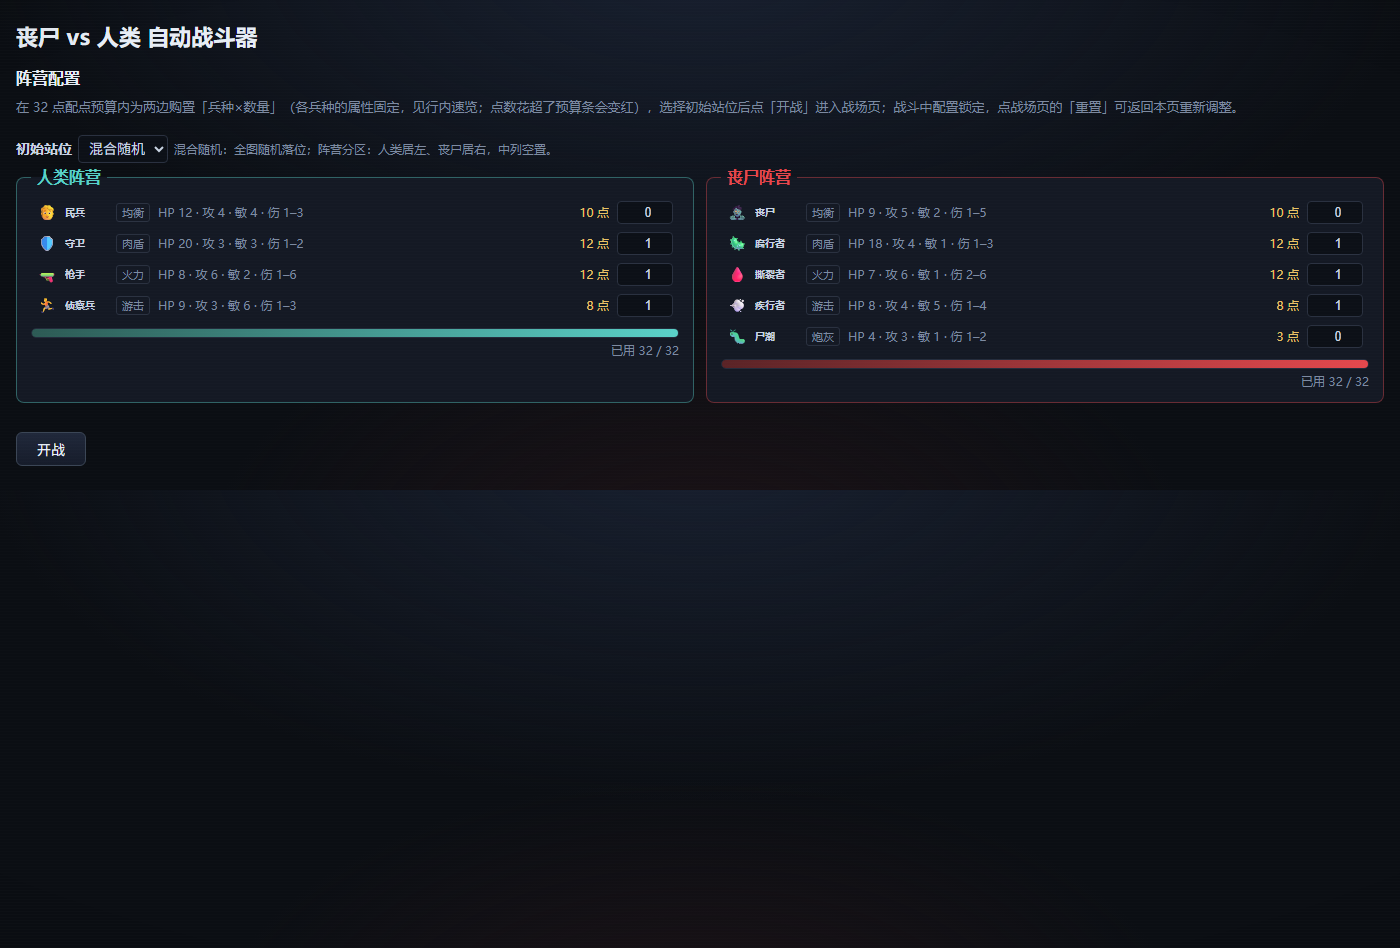
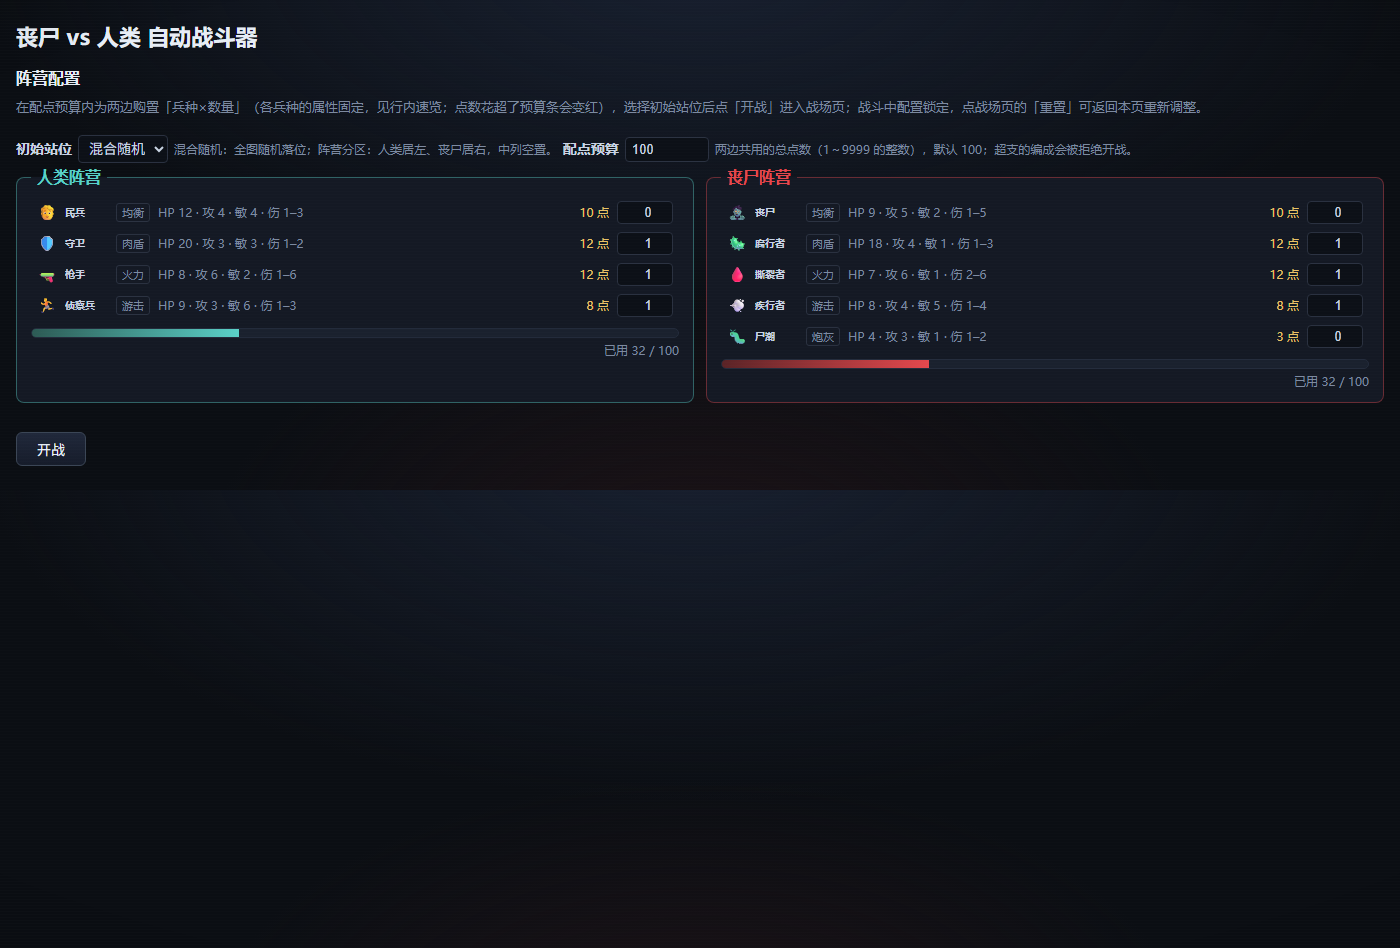
feat(game): default point budget 100, configurable per battle (V9)

diff --git a/src/engine.js b/src/engine.js
@@ -48,7 +48,8 @@
   GameEngine.UNIT_TYPES                 : 兵種表 { human: [4 型], zombie: [5 型] }。各型
                                           { id, name, role, emoji, hp, attack, agility,
                                             dmgMin, dmgMax, cost }。表序＝角色の作成順
-  GameEngine.POINT_BUDGET               : 配点予算（固定同額 32 点/陣営）
+  GameEngine.POINT_BUDGET               : 配点予算の既定値（100 点/陣営。両陣営同額。
+                                          config.pointBudget で開戦前に上書き可）
   GameEngine.createRng(seed)            : () => [0,1) の種付き乱数源を返す
   GameEngine.rollD(sides, rng?)         : 1..sides の整数
   GameEngine.randInt(min, max, rng?)    : min..max の整数（両端を含む）
@@ -132,13 +133,16 @@
   config = {
     placement: 'mixed' | 'split'（初期配置モード。省略 / undefined は 'mixed' 扱い。
                 null・空文字・非文字列・その他の値は検査で簡体中文エラー）,
+    pointBudget: 1..9999 の整数（省略可。配点予算。両陣営同額で既定は 100。
+                不正値は検査で簡体中文エラー、判定には既定値を使う）,
     human:  { composition: { <typeId>: 数量, ... } },
     zombie: { composition: { <typeId>: 数量, ... } }
   }
   * composition の key は当該陣営の兵種表の id（UNIT_TYPES 参照）。欠 key は
     0 扱い、未知 key は検査で簡体中文エラー。数量は各型 0..36 の整数。
-    検査（V1–V8）: 陣営/編成の欠落、未知兵種、数量の非整数、総人数 0、
-    総人数 > 36、総コスト > POINT_BUDGET（32）を簡体中文メッセージで全量収集。
+    検査（V1–V9）: 陣営/編成の欠落、未知兵種、数量の非整数、総人数 0、
+    総人数 > 36、総コスト > 予算（既定 100）、予算自体の非整数を
+    簡体中文メッセージで全量収集。
   * 各陣営の総人数は編成から内生し、1..36（9×9=81 マスに収まる上限。36+36=72 ≤ 81）。
   state = {
     members:  [ { name, faction: 'human'|'zombie', typeId, maxHp, hp, attack,
@@ -185,8 +189,9 @@
 (function () {
   'use strict';
 
-  // 仕様書の既定値（#18 仕様: 編成制。既定編成＝特色三人組、恰 32/32 点。
-  // composition の key は兵種表の全 id を明示する（0 も含む。欠 key は 0 扱い））
+  // 仕様書の既定値（#18 仕様＋2026-10-04 予算改定: 既定 100 点。既定編成＝
+  // 特色三人組 32 点（予算内に余裕）。composition の key は兵種表の全 id を
+  // 明示する（0 も含む。欠 key は 0 扱い））
   var DEFAULT_CONFIG = {
     placement: 'mixed',
     human:  { composition: { militia: 0, guard: 1, gunner: 1, scout: 1 } },
@@ -214,7 +219,9 @@
       { id: 'horde',     name: '尸潮',   role: '炮灰', emoji: '🐛', hp: 4,  attack: 3, agility: 1, dmgMin: 1, dmgMax: 2, cost: 3 }
     ]
   };
-  var POINT_BUDGET = 32;
+  // 配点予算の既定値（2026-10-04 用户裁决: 32 → 100。config.pointBudget で
+  // 開戦前に上書き可能。両陣営同額の扱いは不変）
+  var POINT_BUDGET = 100;
 
   var api = {
     // 無限ループ防止の安全上限（テストから差し替え可能）
@@ -266,8 +273,16 @@
   }
 
   // 設定を検査し、不備のメッセージ配列を返す（空配列なら正当）。
-  // #18 仕様 V1–V8: 旧「人数+四属性」検査は廃止し、編成（兵種×数量×予算）
-  // の検査に差し替える。placement 分支の文言と判定は原文どおり不変。
+  // #18 仕様 V1–V8（2026-10-04 追補: 予算は既定 100・config.pointBudget で
+  // 可変＝V9）: 旧「人数+四属性」検査は廃止し、編成（兵種×数量×予算）の
+  // 検査に差し替える。placement 分支の文言と判定は原文どおり不変。
+  // 予算は両陣営同額。不正な pointBudget は V9 で報告し、判定には既定値を使う。
+  function configBudget(config) {
+    var b = config ? config.pointBudget : undefined;
+    if (b === undefined) return POINT_BUDGET;
+    if (typeof b === 'number' && isFinite(b) && Math.floor(b) === b && b >= 1 && b <= 9999) return b;
+    return POINT_BUDGET;
+  }
   api.validateConfig = function (config) {
     var errors = [];
     // 初期配置モード: 欠落 / undefined のみ 'mixed' の既定扱い。それ以外の
@@ -276,6 +291,14 @@
     if (placement !== undefined && placement !== 'mixed' && placement !== 'split') {
       errors.push('初始站位的取值必须是 mixed 或 split');
     }
+    // V9: 配点予算は省略可（既定 100）。指定するなら 1..9999 の整数
+    var rawBudget = config ? config.pointBudget : undefined;
+    if (rawBudget !== undefined
+        && !(typeof rawBudget === 'number' && isFinite(rawBudget)
+          && Math.floor(rawBudget) === rawBudget && rawBudget >= 1 && rawBudget <= 9999)) {
+      errors.push('配点预算必须是 1～9999 的整数');
+    }
+    var budget = configBudget(config);
     var factions = ['human', 'zombie'];
     for (var i = 0; i < factions.length; i++) {
       var f = factions[i];
@@ -315,9 +338,9 @@
       if (total === 0) errors.push(label + '的编成至少要有一名角色');
       // V6: 総人数が 36 を超える（9×9=81 マスに収まる両陣営合計の上限から）
       if (total > 36) errors.push(label + '的编成总人数不能超过 36');
-      // V7: 総コストが予算を超える
-      if (cost > POINT_BUDGET) {
-        errors.push(label + '的编成花费 ' + cost + ' 点，超出配点预算 ' + POINT_BUDGET + ' 点');
+      // V7: 総コストが予算を超える（予算＝config.pointBudget、省略時は既定 100）
+      if (cost > budget) {
+        errors.push(label + '的编成花费 ' + cost + ' 点，超出配点预算 ' + budget + ' 点');
       }
     }
     return errors;

diff --git a/src/ui.js b/src/ui.js
@@ -99,6 +99,7 @@
       });
     });
     $('config-placement').disabled = !enabled; // 初期站位も全局設定として一緒にロック
+    $('config-budget').disabled = !enabled;    // 配点予算も同様
     $('btn-start').disabled = !enabled;
   }
 
@@ -131,13 +132,21 @@
 
   // ---- 設定パネル ----------------------------------------------------
 
-  // 陣営の予算バーを更新する（「已用 X / 32」。超支は over クラスで赤表示）
+  // 現在の配点予算（全局入力欄から。不正値は表示上は既定値へフォールバック。
+  // 開戦可否の判定はエンジンの V9 が担う）
+  function currentBudget() {
+    var v = Number($('config-budget').value);
+    if (typeof v === 'number' && isFinite(v) && Math.floor(v) === v && v >= 1 && v <= 9999) return v;
+    return E.POINT_BUDGET;
+  }
+
+  // 陣営の予算バーを更新する（「已用 X / 予算」。超支は over クラスで赤表示）
   function updateBudget(f) {
     var used = 0;
     E.UNIT_TYPES[f].forEach(function (t) {
       used += (Number($(f + '-' + t.id).value) || 0) * t.cost;
     });
-    var budget = E.POINT_BUDGET;
+    var budget = currentBudget();
     var bar = $('budget-bar-' + f);
     bar.children[0].style.width = Math.min(100, (used / budget) * 100) + '%';
     bar.classList.toggle('over', used > budget);
@@ -206,10 +215,11 @@
     });
   }
 
-  // 入力欄から設定値を集める（placement は全局セレクトから）
+  // 入力欄から設定値を集める（placement / pointBudget は全局入力から）
   function readConfig() {
     var cfg = {};
     cfg.placement = $('config-placement').value;
+    cfg.pointBudget = Number($('config-budget').value);
     FACTIONS.forEach(function (f) {
       var composition = {};
       E.UNIT_TYPES[f].forEach(function (t) {
@@ -747,6 +757,9 @@
   // ---- 起動 ----------------------------------------------------------
 
   buildConfigPanel();
+  // 配点予算入力は index.html に静的に置くが、JS 側でも既定値を確認して
+  // 入れる（HTML 属性が欠けていた場合の保険。DOM 桩テストでも同じ値になる）
+  $('config-budget').value = String(E.POINT_BUDGET);
   showScreen('config');
   setSpeed('middle');
   // 速度 3 段ボタンの配線（実クリックでも GameUI.setSpeed と同じ経路を通る）
@@ -757,4 +770,9 @@
   $('btn-skip').addEventListener('click', skipToResult);
   $('btn-reset').addEventListener('click', resetToConfig);
   $('btn-clear-log').addEventListener('click', clearLog);
+  // 配点予算の変更は両陣営の予算バーに即時反映する
+  $('config-budget').addEventListener('input', function () {
+    updateBudget('human');
+    updateBudget('zombie');
+  });
 })();

diff --git a/src/index.html b/src/index.html
@@ -21,7 +21,7 @@ GameEngine / GameUI の API ドキュメントは engine.js 冒頭の
 <!-- 配置ページ（画面 1/2。暗色テーマクラスは #16 仕様 S8 の検査対象） -->
 <section id="config-screen" class="dark-theme">
   <h2>阵营配置</h2>
-  <p class="hint">在 32 点配点预算内为两边购置「兵种×数量」（各兵种的属性固定，见行内速览；点数花超了预算条会变红），选择初始站位后点「开战」进入战场页；战斗中配置锁定，点战场页的「重置」可返回本页重新调整。</p>
+  <p class="hint">在配点预算内为两边购置「兵种×数量」（各兵种的属性固定，见行内速览；点数花超了预算条会变红），选择初始站位后点「开战」进入战场页；战斗中配置锁定，点战场页的「重置」可返回本页重新调整。</p>
   <div class="field global-field">
     <label for="config-placement">初始站位</label>
     <select id="config-placement">
@@ -29,6 +29,11 @@ GameEngine / GameUI の API ドキュメントは engine.js 冒頭の
       <option value="split">阵营分区</option>
     </select>
     <span class="field-note">混合随机：全图随机落位；阵营分区：人类居左、丧尸居右，中列空置。</span>
+  </div>
+  <div class="field global-field">
+    <label for="config-budget">配点预算</label>
+    <input type="number" id="config-budget" min="1" max="9999" step="1" value="100">
+    <span class="field-note">两边共用的总点数（1～9999 的整数），默认 100；超支的编成会被拒绝开战。</span>
   </div>
   <div id="faction-configs" class="factions"></div>
   <div id="config-error" class="error"></div>

diff --git a/docs/adr/0003-point-budget-composition.md b/docs/adr/0003-point-budget-composition.md
@@ -1,6 +1,8 @@
 # 编成制与固定同额配点预算替代自由属性配置
 
-战前决策从「人数 + 四属性自由输入」换血为**编成制**：兵种＝固定四属性模板＋点数成本（人类 4 型 / 丧尸 5 型，阵营专属表），每阵营在**固定同额 32 点**配点预算内购置「兵种×数量」，人数由编成内生（每边 1–36），允许不满用。角色名＝兵种名＋型内序号（守卫1、尸潮3），`state.members` 新增 `typeId`（JSON 纯数据，不进任何判定）；默认编成＝特色三人组（人类 守卫+枪手+侦察兵 / 丧尸 腐行者+撕裂者+疾行者，恰 32/32）。这是冻结面「配置校验语义」的一次性授权换血（#18 规格 V1–V8 逐条对应）：旧六类属性校验消息废止，`GameEngine.NAME_PREFIX` 移除，`UNIT_TYPES` / `POINT_BUDGET` 新增导出。战斗函数、日志文案与随机数消费机制一行不动——均衡型（民兵/丧尸）与旧默认属性同值，同种子一致（ADR 0001）结构性保持，由一致性套件继续执法。
+战前决策从「人数 + 四属性自由输入」换血为**编成制**：兵种＝固定四属性模板＋点数成本（人类 4 型 / 丧尸 5 型，阵营专属表），每阵营在**同额配点预算**内购置「兵种×数量」，人数由编成内生（每边 1–36），允许不满用。角色名＝兵种名＋型内序号（守卫1、尸潮3），`state.members` 新增 `typeId`（JSON 纯数据，不进任何判定）；默认编成＝特色三人组（人类 守卫+枪手+侦察兵 / 丧尸 腐行者+撕裂者+疾行者）。这是冻结面「配置校验语义」的一次性授权换血（#18 规格 V1–V8 逐条对应）：旧六类属性校验消息废止，`GameEngine.NAME_PREFIX` 移除，`UNIT_TYPES` / `POINT_BUDGET` 新增导出。战斗函数、日志文案与随机数消费机制一行不动——均衡型（民兵/丧尸）与旧默认属性同值，同种子一致（ADR 0001）结构性保持，由一致性套件继续执法。
+
+[2026-10-04 追记] 预算数值改判：初版「固定同额 32 点」在实测中编成空间过窄（满编只有三人组量级），用户裁决改为**默认 100 点、开战前可在配置页修改**（`config.pointBudget`，1–9999 的整数，缺省与非法值按 100 判定并新增 V9 校验消息）。原被否项「预算可调」就此转为采纳，边界收窄为：仍两边同额、仍开战前一次性确定、不随人数联动；预算条与 V7 报错文案随之显示实际配置值。其余决定（兵种表、命名、V1–V8 语义）不受影响。
 
 ## Considered Options
 

diff --git a/CONTEXT.md b/CONTEXT.md
@@ -23,7 +23,7 @@ _Avoid_: 职业、英雄、兵员
 _Avoid_: 卡组、阵容、配置组合
 
 **配点预算（Point Budget）**：
-每阵营购置编成可用的点数额度，固定同额 32 点：各兵种数量乘以成本的总和不得超出，超支时预算条变红并拒绝开战。
+开战前购置编成可用的点数额度，两边同额共用：默认 100 点，可在配置页修改（1–9999 的整数）；各兵种数量乘以成本的总和不得超出，超支时预算条变红并拒绝开战。
 _Avoid_: 资源、点数池、货币
 
 **倒地（Downed）**：
